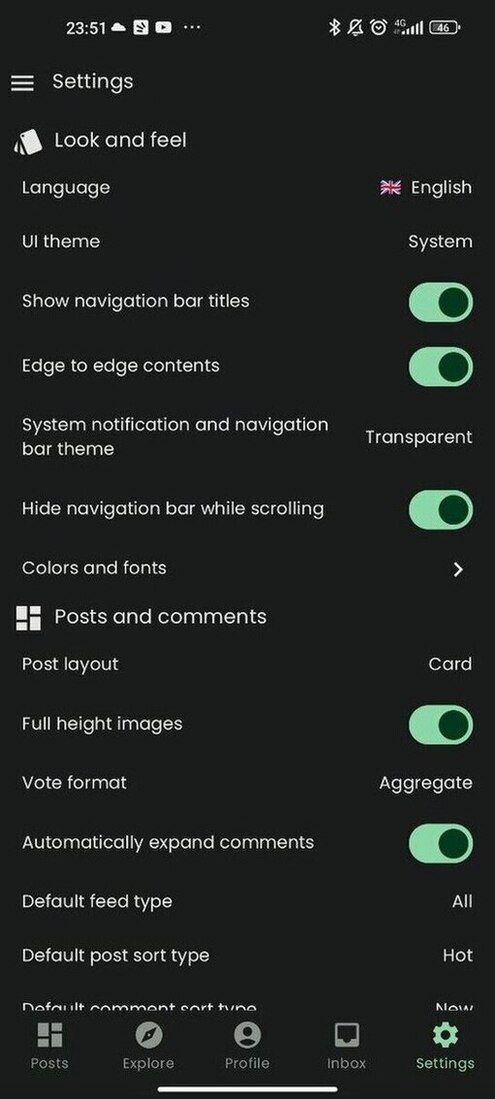
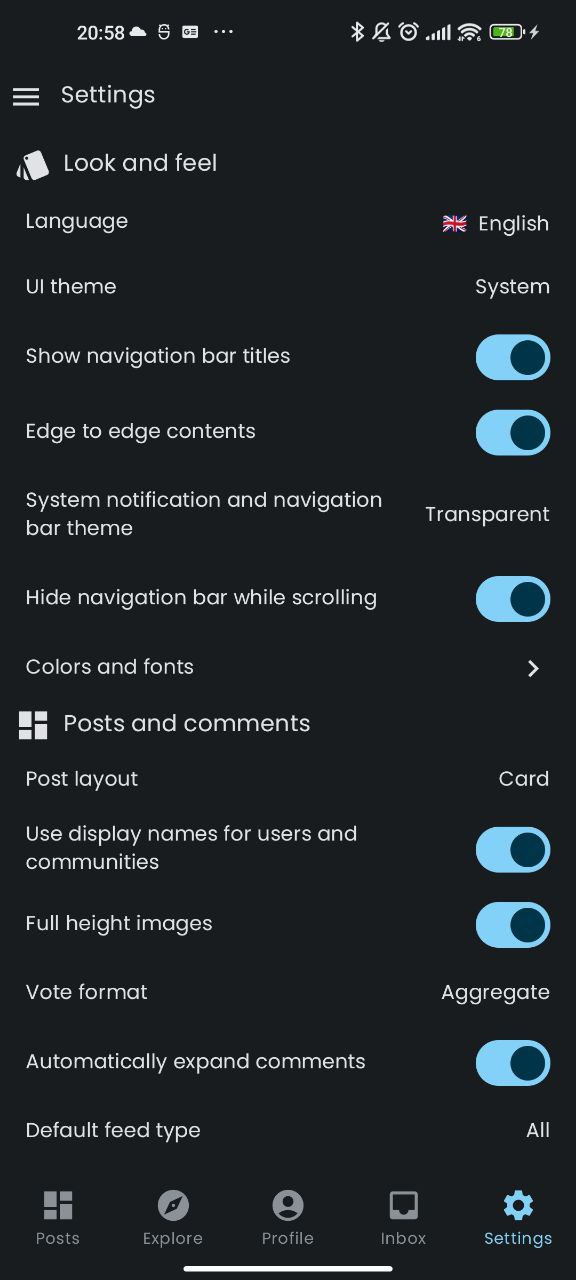
chore: update documentation (#520)

diff --git a/docs/tech_manual/tech_stack.md b/docs/tech_manual/tech_stack.md
@@ -25,8 +25,8 @@ library started to show its limits. Part of them were addressed by encapsulating
 logic (to push/pop screens into the navigation stack and open/close modal bottom sheets) into a 
 centralized component <a href="https://github.com/diegoberaldin/RaccoonForLemmy/blob/master/core/navigation/src/commonMain/kotlin/com/github/diegoberaldin/raccoonforlemmy/core/navigation/NavigationCoordinator.kt">NavigationCoordinator.kt</a>.
 Something similar was done for the navigation drawer in <a href="https://github.com/diegoberaldin/RaccoonForLemmy/blob/master/core/navigation/src/commonMain/kotlin/com/github/diegoberaldin/raccoonforlemmy/core/navigation/DrawerCoordinator.kt">DrawerCoordinator.kt</a>.
-Even the DI integration with Koin was not pain-free, the `:core:navigation` module contains some
-glue code that is used to work around some of the issues that were encountered.
+Even the DI integration with Koin was not pain-free, the <code>:core:navigation</code> module contains
+some glue code that is used to work around some of the issues that were encountered.
 </dd>
 <dt>Networking</dt>
 <dd>Here, at least for Android developers, no surprises: the choice was <a href="https://github.com/ktorio/ktor">Ktor</a>

diff --git a/docs/user_manual/anon_user.md b/docs/user_manual/anon_user.md
@@ -97,7 +97,8 @@ The settings screen allows you to customize the look and behaviour of your app.
 - Post and comments:
     - Post layout: choose a layout (Card, Compact, Full) for posts;
     - Use display names for users and communities: if enabled, uses the user display name and the
-      community title whenever possible, otherwise fallbacks to Lemmy handles;
+      community title whenever possible, otherwise fallbacks to Lemmy handles (
+      e.g. `!raccoonforlemmy@lemmy.world`);
     - Vote format: see the score of posts and comments as aggregated (`upvotes - downvotes`), split
       or percentage (`upvotes / (upvotes + downvotes) * 100`);
     - Full height images: show images with scaled width and full height (instead of capping the
